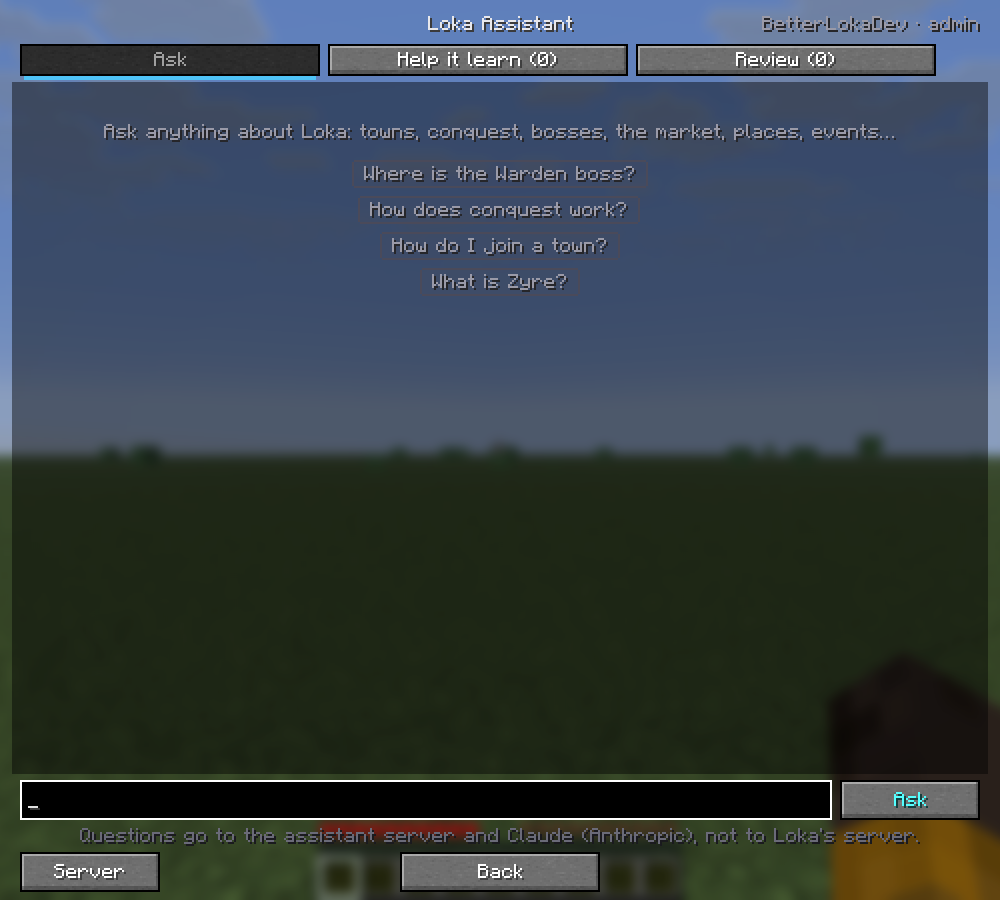
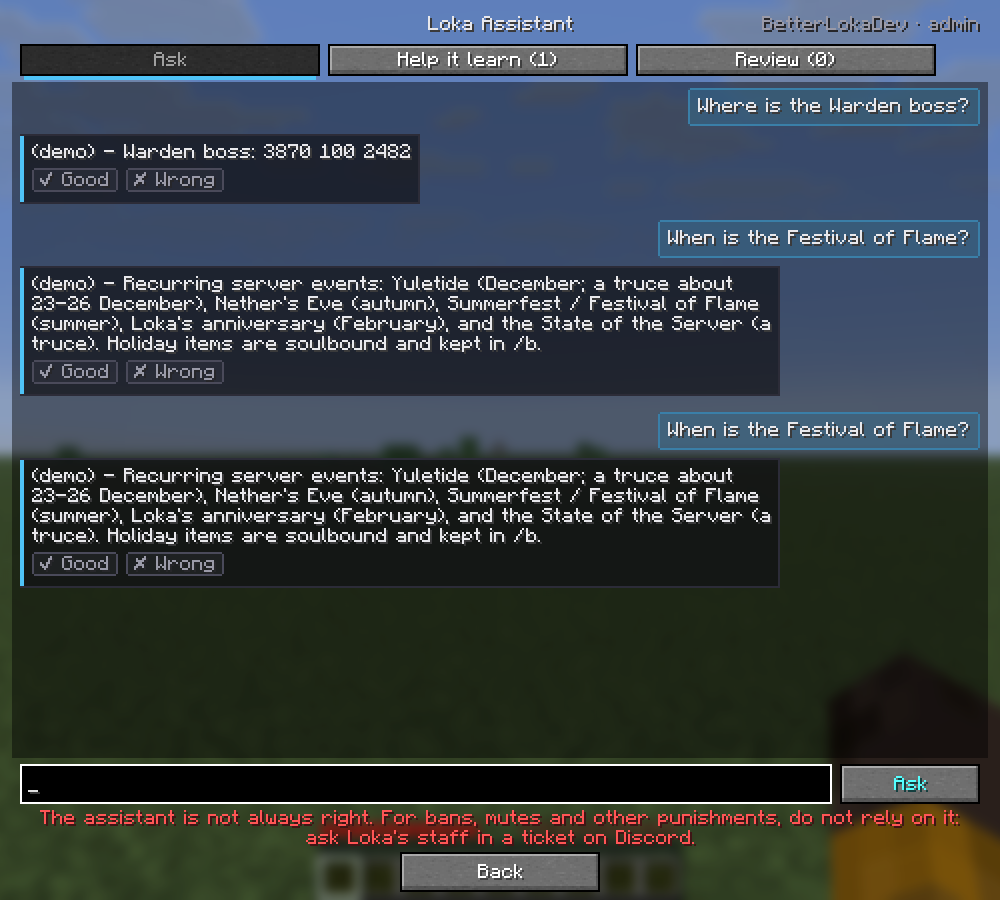
0.45.0: the assistant always talks to the BetterLoka server; a red warning under the chat
Every copy of the mod now connects to the BetterLoka assistant server at
ent-8.icehost.pl:40076. It is built in, not a setting: the server panel,
the Server button and the saved address are gone, so there is nothing to
enter and nothing to change. Only the developer's own test run can point
it at a local demo server.

The grey line about where questions go is replaced, on the Ask tab, by a
red warning: the assistant is not always right, and for bans, mutes and
other punishments players should ask Loka's staff in a ticket on Discord
rather than rely on it. It wraps to the chat's width and the input moves
up to make room. Where questions go is still in the note shown before the
first question.

Claude-Session: https://claude.ai/code/session_01D6zCjWsURLBjRYm9ECEJfX

Changed region(s): [[0.0, 0.0933, 0.992, 0.6533], [0.0, 0.84, 0.992, 0.9956], [0.527, 0.0622, 0.558, 0.0933]]

diff --git a/src/main/java/com/betterloka/gui/AssistantScreen.java b/src/main/java/com/betterloka/gui/AssistantScreen.java
@@ -31,11 +31,15 @@ import java.util.concurrent.CompletionException;
  * <b>Review</b>, for the assistant's admins only, approves those answers, and only then does the
  * assistant learn them.
  *
- * <p>Questions go to the assistant server set in the screen, never to Loka's server, and only when
- * the player asks; before the first one the screen says so and waits for the player to agree.
+ * <p>Questions go to the BetterLoka assistant server ({@link AssistantClient#SERVER}, not a setting),
+ * never to Loka's server, and only when the player asks; before the first one the screen says so and
+ * waits for the player to agree. Under the chat a red line says the assistant can be wrong, and that
+ * punishments are a question for Loka's staff, not for it.
  */
 public class AssistantScreen extends Screen {
     private static final int MAX_WIDTH = 480;
+    /** Minecraft's own red (§c): the disclaimer has to read as a warning, not as a hint. */
+    private static final int DISCLAIMER_RED = 0xFFFF5555;
     private static final int TOP = 22;
     private static final int TAB_HEIGHT = 16;
     private static final int LINE = 10;
@@ -85,10 +89,8 @@ public class AssistantScreen extends Screen {
     private int activeTabX;
     private int activeTabWidth;
     private EditBox input;
-    private EditBox serverField;
     private EditBox helpQuestion;
     private MultiLineEditBox helpAnswer;
-    private boolean editingServer;
     private boolean connecting;
     private String connectError;
     private boolean stickToEnd = true;
@@ -123,16 +125,19 @@ public class AssistantScreen extends Screen {
         return this.height - 24;
     }
 
+    /** The input sits above the red disclaimer, however many lines it wraps to at this width. */
     private int inputY() {
-        return backY() - 36;
+        return backY() - 24 - disclaimerLines().size() * 10;
+    }
+
+    /** "The assistant can be wrong; ask staff about bans", wrapped to the chat's width, at most three lines. */
+    private List<FormattedCharSequence> disclaimerLines() {
+        List<FormattedCharSequence> lines = this.font.split(Component.translatable("betterloka.assistant.disclaimer"), contentWidth());
+        return lines.size() > 3 ? lines.subList(0, 3) : lines;
     }
 
     private int listTop() {
         return TOP + TAB_HEIGHT + GAP;
-    }
-
-    private boolean needsServer() {
-        return editingServer || BetterLokaClient.config().assistantServer().isBlank();
     }
 
     private boolean needsNotice() {
@@ -140,7 +145,7 @@ public class AssistantScreen extends Screen {
     }
 
     private boolean ready() {
-        return !needsServer() && !needsNotice();
+        return !needsNotice();
     }
 
     @Override
@@ -157,11 +162,8 @@ public class AssistantScreen extends Screen {
         input = null;
         helpQuestion = null;
         helpAnswer = null;
-        serverField = null;
 
-        if (needsServer()) {
-            initServerPanel();
-        } else if (needsNotice()) {
+        if (needsNotice()) {
             int panelY = this.height / 2 + 30;
             addRenderableWidget(Button.builder(Component.translatable("betterloka.assistant.accept")
                             .withStyle(ChatFormatting.GREEN), button -> {
@@ -178,11 +180,6 @@ public class AssistantScreen extends Screen {
                 case REVIEW -> initReview(left, width);
             }
             scroll.setViewport(left, listTop(), width, listBottom() - listTop());
-            addRenderableWidget(Button.builder(Component.translatable("betterloka.assistant.server"), button -> {
-                        editingServer = true;
-                        rebuildWidgets();
-                    })
-                    .bounds(left, backY(), 70, 20).build());
         }
         addRenderableWidget(Button.builder(CommonComponents.GUI_BACK, button -> onClose())
                 .bounds(this.width / 2 - 50, backY(), 100, 20).build());
@@ -203,49 +200,6 @@ public class AssistantScreen extends Screen {
     /** The composer under the open questions: two labels, the question, the answer and its counter. */
     private int helpComposerTop() {
         return backY() - 4 - (LINE + 18 + 2 + LINE + HELP_ANSWER_HEIGHT + LINE);
-    }
-
-    private void initServerPanel() {
-        int panelWidth = Math.min(320, this.width - 40);
-        int x = (this.width - panelWidth) / 2;
-        int y = this.height / 2 - 6;
-        serverField = new EditBox(this.font, x, y, panelWidth, 18, Component.translatable("betterloka.assistant.server_title"));
-        serverField.setMaxLength(200);
-        serverField.setHint(Component.translatable("betterloka.assistant.server_hint").withStyle(ChatFormatting.DARK_GRAY));
-        serverField.setValue(BetterLokaClient.config().assistantServer());
-        addRenderableWidget(serverField);
-        setInitialFocus(serverField);
-        boolean canCancel = !BetterLokaClient.config().assistantServer().isBlank();
-        int buttonWidth = canCancel ? (panelWidth - 4) / 2 : panelWidth;
-        addRenderableWidget(Button.builder(Component.translatable("betterloka.assistant.save"), button -> saveServer())
-                .bounds(x, y + 24, buttonWidth, 20).build());
-        if (canCancel) {
-            addRenderableWidget(Button.builder(Component.translatable("betterloka.assistant.cancel"), button -> {
-                        editingServer = false;
-                        rebuildWidgets();
-                    })
-                    .bounds(x + buttonWidth + 4, y + 24, buttonWidth, 20).build());
-        }
-    }
-
-    private void saveServer() {
-        String address = AssistantClient.normalize(serverField.getValue());
-        if (address.isEmpty() && AssistantClient.DEFAULT_SERVER.isBlank()) {
-            return;
-        }
-        String before = BetterLokaClient.config().assistantServer();
-        BetterLokaClient.config().setAssistantServer(address);
-        if (!BetterLokaClient.config().assistantServer().equals(before)) {
-            client.logout();
-            open = List.of();
-            pending = List.of();
-        }
-        editingServer = false;
-        connectError = null;
-        rebuildWidgets();
-        if (ready()) {
-            connect();
-        }
     }
 
     private void initTabs(int left, int width) {
@@ -556,10 +510,6 @@ public class AssistantScreen extends Screen {
                 ask();
                 return true;
             }
-            if (serverField != null && serverField.isFocused()) {
-                saveServer();
-                return true;
-            }
         }
         return super.keyPressed(event);
     }
@@ -610,9 +560,7 @@ public class AssistantScreen extends Screen {
         super.extractRenderState(context, mouseX, mouseY, delta);
         context.centeredText(this.font, this.title, this.width / 2, 8, GuiTheme.TEXT);
         hits.clear();
-        if (needsServer()) {
-            drawServerPanel(context);
-        } else if (needsNotice()) {
+        if (needsNotice()) {
             drawNotice(context);
         } else {
             drawStatus(context);
@@ -638,11 +586,10 @@ public class AssistantScreen extends Screen {
                 context.text(this.font, Component.translatable("betterloka.assistant.your_answer"), left, y + LINE + 18 + 2, GuiTheme.MUTED);
             }
             if (tab == Tab.ASK) {
-                int footerY = inputY() + 24;
-                Component privacy = Component.translatable("betterloka.assistant.privacy");
-                List<FormattedCharSequence> lines = this.font.split(privacy, contentWidth());
-                if (!lines.isEmpty() && footerY + 9 < backY()) {
-                    context.centeredText(this.font, lines.get(0), this.width / 2, footerY, 0xFF6A6A78);
+                int footerY = inputY() + 23;
+                for (FormattedCharSequence line : disclaimerLines()) {
+                    context.centeredText(this.font, line, this.width / 2, footerY, DISCLAIMER_RED);
+                    footerY += 10;
                 }
             }
         }
@@ -665,12 +612,7 @@ public class AssistantScreen extends Screen {
             int left = left();
             context.fill(left - 4, listTop() - 3, left + contentWidth() + 4, listBottom() + 3, 0x70000000);
         }
-        if (needsServer()) {
-            int panelWidth = Math.min(320, this.width - 40);
-            int x = (this.width - panelWidth) / 2;
-            int y = this.height / 2 - 6;
-            GuiTheme.panel(context, x - 10, y - 58, panelWidth + 20, 112);
-        } else if (needsNotice()) {
+        if (needsNotice()) {
             int panelWidth = Math.min(340, this.width - 40);
             int x = (this.width - panelWidth) / 2;
             int textHeight = this.font.split(Component.translatable("betterloka.assistant.notice"), panelWidth).size() * LINE;
@@ -698,22 +640,6 @@ public class AssistantScreen extends Screen {
         int right = left() + contentWidth();
         int x = Math.max(this.width / 2 + this.font.width(this.title) / 2 + 8, right - this.font.width(status));
         context.text(this.font, status, x, 8, color);
-    }
-
-    private void drawServerPanel(GuiGraphicsExtractor context) {
-        int panelWidth = Math.min(320, this.width - 40);
-        int x = (this.width - panelWidth) / 2;
-        int y = this.height / 2 - 6;
-        context.text(this.font, Component.translatable("betterloka.assistant.server_title").withStyle(ChatFormatting.BOLD),
-                x, y - 50, GuiTheme.ACCENT);
-        int textY = y - 36;
-        Component help = AssistantClient.DEFAULT_SERVER.isBlank()
-                ? Component.translatable("betterloka.assistant.server_help")
-                : Component.translatable("betterloka.assistant.server_help_default");
-        for (FormattedCharSequence line : this.font.split(help, panelWidth)) {
-            context.text(this.font, line, x, textY, GuiTheme.MUTED);
-            textY += LINE;
-        }
     }
 
     private void drawNotice(GuiGraphicsExtractor context) {
@@ -1020,13 +946,6 @@ public class AssistantScreen extends Screen {
     }
 
     // ---- for the dev diagnostics run ----
-
-    public static void devServer(String address) {
-        if (devInstance != null && devInstance.serverField != null) {
-            devInstance.serverField.setValue(address);
-            devInstance.saveServer();
-        }
-    }
 
     public static void devAccept() {
         if (devInstance != null) {

diff --git a/src/main/java/com/betterloka/assistant/AssistantClient.java b/src/main/java/com/betterloka/assistant/AssistantClient.java
@@ -34,11 +34,23 @@ import java.util.function.Supplier;
  * <p>Plain Java; the game is reached only through the {@link Joiner} and the two suppliers.
  */
 public final class AssistantClient {
+    /** The BetterLoka assistant server every copy of the mod talks to. Not a setting: players cannot change it. */
+    public static final String SERVER = "http://ent-8.icehost.pl:40076";
+
     /**
-     * The assistant server every copy of the mod talks to unless the player enters another one.
-     * Empty: there is none, and the assistant asks the player for an address.
+     * Where to connect: always {@link #SERVER}. The one exception is the developer's own test run
+     * ({@code BETTERLOKA_DIAG=v43}), which points it at a local demo server named in
+     * {@code BETTERLOKA_ASSISTANT}, so the screens can be checked without the real server.
      */
-    public static final String DEFAULT_SERVER = "";
+    public static String server(java.util.Map<String, String> environment) {
+        if ("v43".equals(environment.get("BETTERLOKA_DIAG"))) {
+            String local = environment.get("BETTERLOKA_ASSISTANT");
+            if (local != null && !local.isBlank()) {
+                return normalize(local);
+            }
+        }
+        return SERVER;
+    }
 
     /** Tells Mojang the player is joining {@code serverId}. */
     @FunctionalInterface
@@ -121,21 +133,6 @@ public final class AssistantClient {
 
     public String loggedInAs() {
         return loggedInAs;
-    }
-
-    /** The server to use: the player's own address, or the built-in one when they have none. */
-    public static String effectiveServer(String stored, String builtIn) {
-        String own = normalize(stored);
-        return own.isEmpty() ? normalize(builtIn) : own;
-    }
-
-    /**
-     * What to save for an address the player entered: nothing when it is empty or the built-in one,
-     * so a later version of the mod can move the built-in server without leaving them behind.
-     */
-    public static String serverToStore(String entered, String builtIn) {
-        String own = normalize(entered);
-        return own.equals(normalize(builtIn)) ? "" : own;
     }
 
     /** {@code play.example.com:8787} becomes {@code http://play.example.com:8787}; no trailing slash. */

diff --git a/src/test/java/com/betterloka/assistant/AssistantClientTest.java b/src/test/java/com/betterloka/assistant/AssistantClientTest.java
@@ -82,18 +82,12 @@ class AssistantClientTest {
     }
 
     @Test
-    void theBuiltInServerIsUsedUntilThePlayerEntersTheirOwn() {
-        String builtIn = "assistant.example.com:25570";
-        assertEquals("http://assistant.example.com:25570", AssistantClient.effectiveServer("", builtIn));
-        assertEquals("http://assistant.example.com:25570", AssistantClient.effectiveServer(null, builtIn));
-        assertEquals("http://1.2.3.4:8787", AssistantClient.effectiveServer("1.2.3.4:8787", builtIn));
-        assertEquals("", AssistantClient.effectiveServer("", ""), "no built-in server: the screen asks for one");
-
-        // Entering the built-in address, or nothing, saves nothing: a later version can move it.
-        assertEquals("", AssistantClient.serverToStore("http://assistant.example.com:25570/", builtIn));
-        assertEquals("", AssistantClient.serverToStore("  ", builtIn));
-        assertEquals("http://1.2.3.4:8787", AssistantClient.serverToStore("1.2.3.4:8787", builtIn));
-        assertEquals("http://1.2.3.4:8787", AssistantClient.serverToStore("1.2.3.4:8787", ""));
+    void everyCopyTalksToTheBetterLokaServerAndOnlyATestRunCanPointElsewhere() {
+        assertEquals("http://ent-8.icehost.pl:40076", AssistantClient.server(java.util.Map.of()));
+        assertEquals(AssistantClient.SERVER, AssistantClient.server(java.util.Map.of("BETTERLOKA_ASSISTANT", "127.0.0.1:8787")),
+                "an address alone changes nothing");
+        assertEquals("http://127.0.0.1:8787", AssistantClient.server(
+                java.util.Map.of("BETTERLOKA_DIAG", "v43", "BETTERLOKA_ASSISTANT", "127.0.0.1:8787")));
     }
 
     @Test

diff --git a/src/main/java/com/betterloka/config/BetterLokaConfig.java b/src/main/java/com/betterloka/config/BetterLokaConfig.java
@@ -1,7 +1,6 @@
 package com.betterloka.config;
 
 import com.betterloka.BetterLoka;
-import com.betterloka.assistant.AssistantClient;
 import com.betterloka.grind.ShrineKind;
 import com.google.gson.Gson;
 import com.google.gson.GsonBuilder;
@@ -124,12 +123,6 @@ public final class BetterLokaConfig {
      */
     private boolean coordsHudDefaultMigrated = false;
 
-    /**
-     * The Loka Assistant server the player entered, such as {@code http://203.0.113.5:8787}. Empty:
-     * the mod's built-in server ({@link AssistantClient#DEFAULT_SERVER}), or, without one, the
-     * assistant asks for an address. Nothing is sent to it before the player accepts the notice.
-     */
-    private String assistantServer = "";
     /** Whether the player has read where their questions go. */
     private boolean assistantNoticeAccepted = false;
 
@@ -333,17 +326,6 @@ public final class BetterLokaConfig {
 
     public void setShowNameplatePing(boolean showNameplatePing) {
         this.showNameplatePing = showNameplatePing;
-        save();
-    }
-
-    /** The assistant server to use: the player's own, else the built-in one; empty if neither. */
-    public String assistantServer() {
-        return AssistantClient.effectiveServer(assistantServer, AssistantClient.DEFAULT_SERVER);
-    }
-
-    /** Sets the player's own server; empty (or the built-in address) goes back to the built-in one. */
-    public void setAssistantServer(String assistantServer) {
-        this.assistantServer = AssistantClient.serverToStore(assistantServer, AssistantClient.DEFAULT_SERVER);
         save();
     }
 

diff --git a/src/main/java/com/betterloka/DevDiagnostics.java b/src/main/java/com/betterloka/DevDiagnostics.java
@@ -1149,14 +1149,12 @@ public final class DevDiagnostics {
             client().options.guiScale().set(2);
             client().resizeGui();
             client().gui.toastManager().clear();
-            BetterLokaClient.config().setAssistantServer("");
             BetterLokaClient.config().setAssistantNoticeAccepted(false);
         });
         step(2, () -> client().gui.setScreen(new com.betterloka.gui.BetterLokaMenuScreen(null)));
         shot(10, "v43-menu");
+        step(2, () -> BetterLoka.LOGGER.info("DIAG v43 assistant server {}", com.betterloka.assistant.AssistantClient.server(System.getenv())));
         step(2, () -> client().gui.setScreen(new com.betterloka.gui.AssistantScreen(null)));
-        shot(10, "v43-server");
-        step(2, () -> com.betterloka.gui.AssistantScreen.devServer(String.valueOf(System.getenv().getOrDefault("BETTERLOKA_ASSISTANT", "127.0.0.1:8787"))));
         shot(10, "v43-notice");
         step(2, com.betterloka.gui.AssistantScreen::devAccept);
         step(60, () -> BetterLoka.LOGGER.info("DIAG v43 logged in as {} (admin {}, left {})",

diff --git a/src/main/java/com/betterloka/BetterLokaClient.java b/src/main/java/com/betterloka/BetterLokaClient.java
@@ -318,7 +318,7 @@ public class BetterLokaClient implements ClientModInitializer {
     public static synchronized AssistantClient assistant() {
         if (assistant == null) {
             assistant = new AssistantClient(
-                    () -> config.assistantServer(),
+                    () -> AssistantClient.server(System.getenv()),
                     () -> Minecraft.getInstance().getUser().getName(),
                     serverId -> {
                         Minecraft client = Minecraft.getInstance();

diff --git a/README.md b/README.md
@@ -667,6 +667,9 @@ Ask anything about Loka — towns, conquest, bosses, the market, places, events 
 by Anthropic) answers in your language from what Loka has published and what players have taught it.
 Each answer can be marked **✔ Good** or **✘ Wrong**.
 
+A red line under the chat says what the assistant is not: it can be wrong, and for bans, mutes and
+other punishments players should ask Loka's staff in a ticket on Discord rather than rely on it.
+
 ![Help it learn](docs/assistant-help.png)
 
 **Help it learn** lists what the assistant could not answer, and answers players marked wrong, most
@@ -678,7 +681,8 @@ the next question on. Nothing a player writes is learned on its own.
 
 The answering happens on a **separate server** ([`assistant/`](assistant/README.md)), which holds the
 Claude API key, the knowledge base, the budget and the per-player limits. The key is never in the mod,
-where anyone could take it. The server's address is set once in the screen.
+where anyone could take it. Every copy of the mod talks to the BetterLoka assistant server
+(`ent-8.icehost.pl:40076`); it is built in, not a setting, so there is nothing to enter.
 
 What is sent, and when: nothing until you open Loka Assistant and agree to the note it shows first.
 From then on, opening it logs you in (your name, checked with Mojang as below), and asking, rating or

diff --git a/assistant/README.md b/assistant/README.md
@@ -31,8 +31,9 @@ be spent by strangers.
    ```
    java -jar betterloka-assistant-<wersja>.jar
    ```
-7. W grze: BetterLoka → **Loka Assistant** → wpisz adres serwera, np. `127.0.0.1:8787` (ten sam
-   komputer) albo `IP-VPS:8787`.
+7. Mod od wersji 0.45.0 łączy się zawsze z serwerem BetterLoka (`ent-8.icehost.pl:40076`, zapisany
+   w `AssistantClient.SERVER`); gracze nie wpisują adresu. Własny serwer pod innym adresem wymaga
+   zmiany tej stałej i zbudowania moda.
 
 Bez klucza da się obejrzeć ekran w grze: `java -jar ... serve --demo` odpowiada linijkami z bazy
 wiedzy, bez Claude i za darmo.
